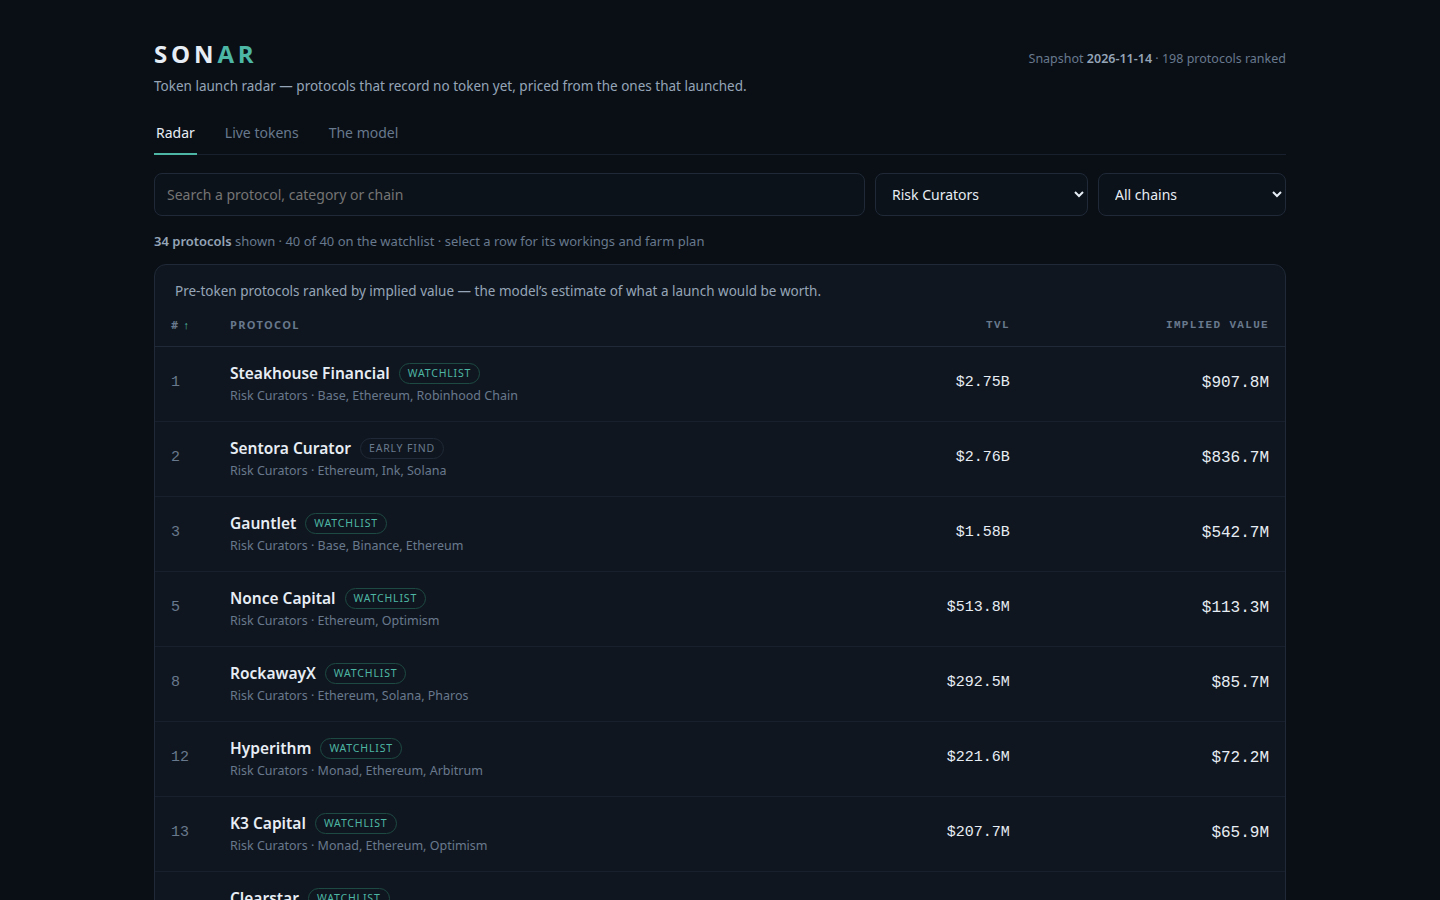
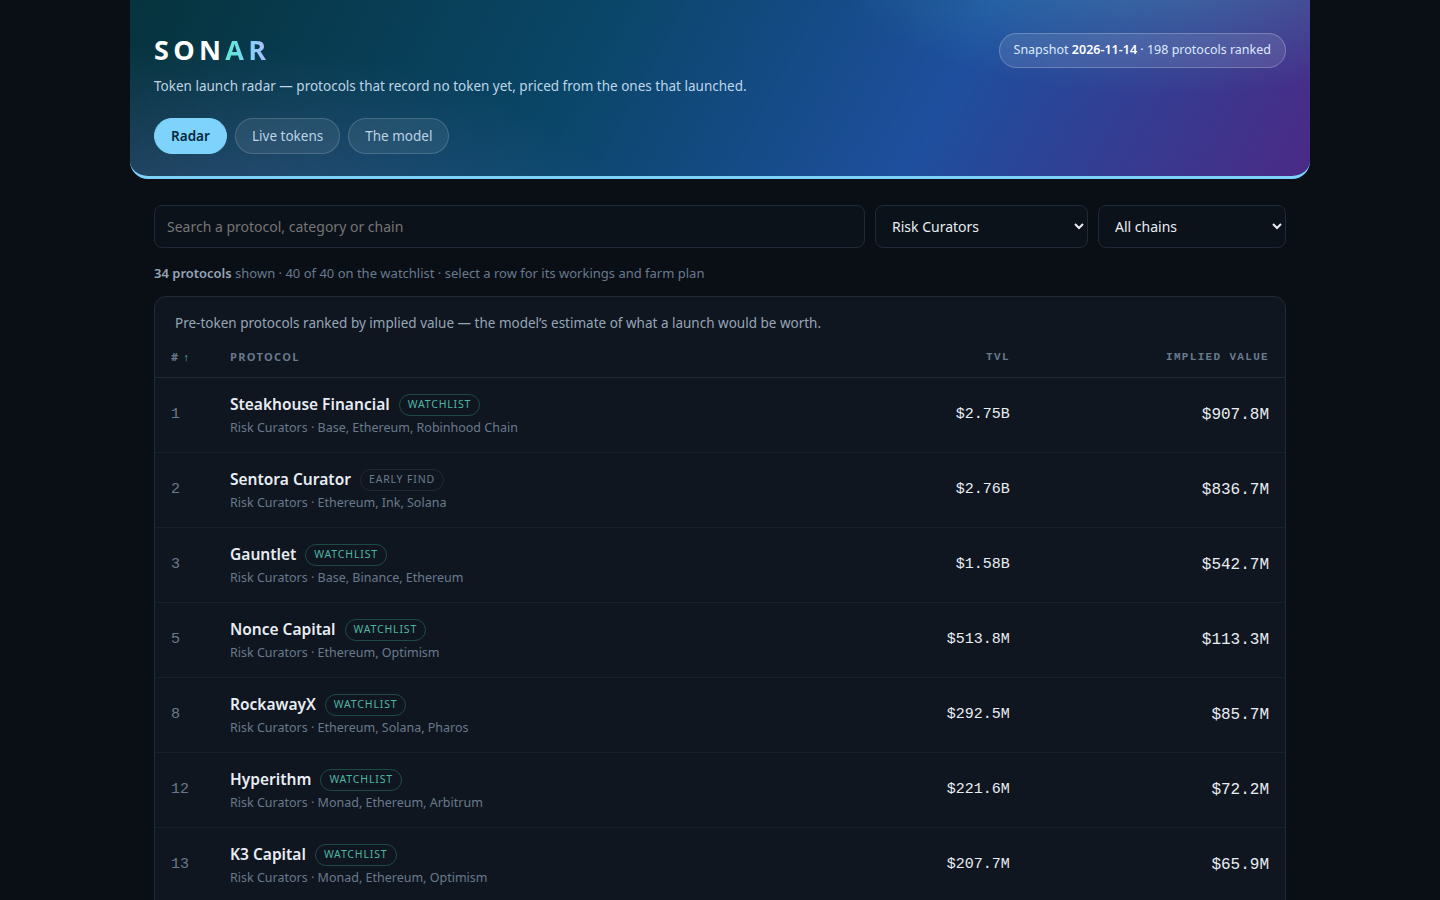
Colour the masthead: deep-sea gradient band, gradient wordmark tail, frosted provenance chip, sky pill tabs

diff --git a/dashboard/app.css b/dashboard/app.css
@@ -1,6 +1,7 @@
-/* Sonar dashboard: a quiet page. One ink background, one muted-teal accent, hairline rules and
-   generous whitespace. No webfonts, no images, no gradients: type, spacing and a single colour
-   carry the whole design. */
+/* Sonar dashboard: a quiet page under one coloured head. The masthead carries a deep-sea
+   gradient — teal through blue into violet, with a radar glow in its corner — and everything
+   below it stays calm: one ink background, one muted-teal accent, hairline rules and generous
+   whitespace. No webfonts, no images: type, spacing and colour carry the whole design. */
 
 :root {
   --ink: #0a0f16;
@@ -13,6 +14,7 @@
   --faint: #68798d;
   --accent: #4db6a4;
   --accent-dim: #1d4a43;
+  --sky: #7dd3fc;
   --num: ui-monospace, "SF Mono", "Cascadia Mono", Menlo, Consolas, monospace;
   --sans: "Avenir Next", "Segoe UI", system-ui, -apple-system, Helvetica, Arial, sans-serif;
 }
@@ -31,23 +33,45 @@ main { display: block; }
 .num { font-family: var(--num); font-variant-numeric: tabular-nums; }
 .mut { color: var(--muted); }
 
-/* header: a wordmark, one line of description, one line of provenance */
-.topbar { display: flex; align-items: baseline; justify-content: space-between; gap: 24px; flex-wrap: wrap; }
-.brand h1 { font-size: 24px; letter-spacing: 0.16em; margin: 0; font-weight: 700; }
-.brand h1 em { font-style: normal; color: var(--accent); }
-.brand .tag { color: var(--muted); font-size: 13.5px; margin-top: 4px; }
-.topmeta { color: var(--faint); font-size: 12.5px; white-space: nowrap; }
-.topmeta b { color: var(--muted); font-weight: 600; }
-
-/* view tabs: three quiet text links, the current one underlined in the accent */
-.tabs { display: flex; gap: 26px; margin: 26px 0 18px; border-bottom: 1px solid var(--line-soft); }
-.tabs button {
-  background: none; border: none; padding: 0 2px 10px; margin-bottom: -1px;
-  font: inherit; font-size: 14px; color: var(--faint); cursor: pointer;
-  border-bottom: 2px solid transparent;
+/* the masthead: a gradient band across the head of the page. It breaks out of the wrap's
+   padding so the colour runs edge to edge, and closes with a bright sonar line. Inside it the
+   wordmark is white with a gradient tail, the provenance sits in a frosted chip, and the view
+   tabs are pills on the colour, the current one filled sky. */
+.masthead {
+  margin: -36px -24px 26px;
+  padding: 30px 24px 20px;
+  background:
+    radial-gradient(560px 240px at 88% -30%, rgba(94, 234, 212, 0.30), rgba(94, 234, 212, 0) 62%),
+    radial-gradient(720px 320px at 6% 135%, rgba(167, 139, 250, 0.24), rgba(167, 139, 250, 0) 60%),
+    linear-gradient(118deg, #06333d 0%, #0a4668 38%, #1e4f9e 68%, #4b2a86 100%);
+  border-bottom: 3px solid var(--sky);
+  border-radius: 0 0 18px 18px;
 }
-.tabs button:hover { color: var(--text); }
-.tabs button[aria-pressed="true"] { color: var(--text); border-bottom-color: var(--accent); }
+.topbar { display: flex; align-items: flex-start; justify-content: space-between; gap: 24px; flex-wrap: wrap; }
+.brand h1 { font-size: 27px; letter-spacing: 0.16em; margin: 0; font-weight: 700; color: #ffffff; }
+.brand h1 em {
+  font-style: normal;
+  background: linear-gradient(92deg, #5eead4, var(--sky) 55%, #c4b5fd);
+  -webkit-background-clip: text; background-clip: text;
+  -webkit-text-fill-color: transparent; color: transparent;
+}
+.brand .tag { color: rgba(219, 234, 254, 0.88); font-size: 13.5px; margin-top: 5px; }
+.topmeta {
+  color: #dbeafe; font-size: 12.5px; white-space: nowrap; margin-top: 3px;
+  background: rgba(255, 255, 255, 0.10); border: 1px solid rgba(255, 255, 255, 0.22);
+  border-radius: 99px; padding: 7px 14px;
+}
+.topmeta b { color: #ffffff; font-weight: 600; }
+
+/* view tabs: pills resting on the masthead colour, the current one filled sky */
+.tabs { display: flex; gap: 8px; margin: 22px 0 2px; flex-wrap: wrap; }
+.tabs button {
+  background: rgba(255, 255, 255, 0.07); border: 1px solid rgba(255, 255, 255, 0.16);
+  padding: 7px 16px; border-radius: 99px;
+  font: inherit; font-size: 13.5px; color: rgba(219, 234, 254, 0.85); cursor: pointer;
+}
+.tabs button:hover { color: #ffffff; background: rgba(255, 255, 255, 0.15); }
+.tabs button[aria-pressed="true"] { color: #06283b; background: var(--sky); border-color: var(--sky); font-weight: 600; }
 
 /* controls: a search box and two filters, nothing else */
 .toolbar { display: flex; gap: 10px; align-items: stretch; flex-wrap: wrap; margin-bottom: 16px; }
@@ -124,4 +148,5 @@ table.compact tbody tr:hover { background: transparent; }
 @media (max-width: 900px) {
   .model-cols { grid-template-columns: 1fr; }
   .wrap { padding: 24px 14px 44px; }
+  .masthead { margin: -24px -14px 22px; padding: 24px 14px 16px; }
 }

diff --git a/dashboard/app.js b/dashboard/app.js
@@ -1,8 +1,8 @@
 // Sonar dashboard. Reads window.RADAR (written beside this folder by main.ts from the same board
 // board.json carries) and renders three views: the ranked radar, the live-token set aside, and the
 // model itself. Every figure on the page comes from that one object; the page fetches nothing.
-// The presentation is deliberately plain: one board with four columns, a search box and two
-// filters, and a detail page per protocol carrying everything the board leaves out.
+// The presentation: a coloured masthead over a plain board — four columns, a search box and
+// two filters, and a detail page per protocol carrying everything the board leaves out.
 (function () {
   'use strict';
 
@@ -97,7 +97,7 @@
     });
   }
 
-  // ---- chrome: a wordmark and one line of provenance, then three quiet tabs
+  // ---- chrome: a coloured masthead band — wordmark, provenance chip and the three view tabs
   function topbar() {
     return el('div', { class: 'topbar' },
       el('div', { class: 'brand' },
@@ -323,12 +323,15 @@
   function render() {
     app.textContent = '';
     var wrap = el('div', { class: 'wrap' });
-    wrap.appendChild(topbar());
+    // the masthead: one coloured band carrying the wordmark, the provenance chip and the view tabs
+    var mast = el('header', { class: 'masthead' }, topbar());
     var selected = state.selected ? DATA.rows.filter(function (r) { return r.slug === state.selected; })[0] : null;
     if (selected) {
+      wrap.appendChild(mast);
       wrap.appendChild(detailView(selected));
     } else {
-      wrap.appendChild(tabs());
+      mast.appendChild(tabs());
+      wrap.appendChild(mast);
       wrap.appendChild(toolbar());
       if (state.view === 'live') wrap.appendChild(liveView());
       else if (state.view === 'model') wrap.appendChild(modelView());
